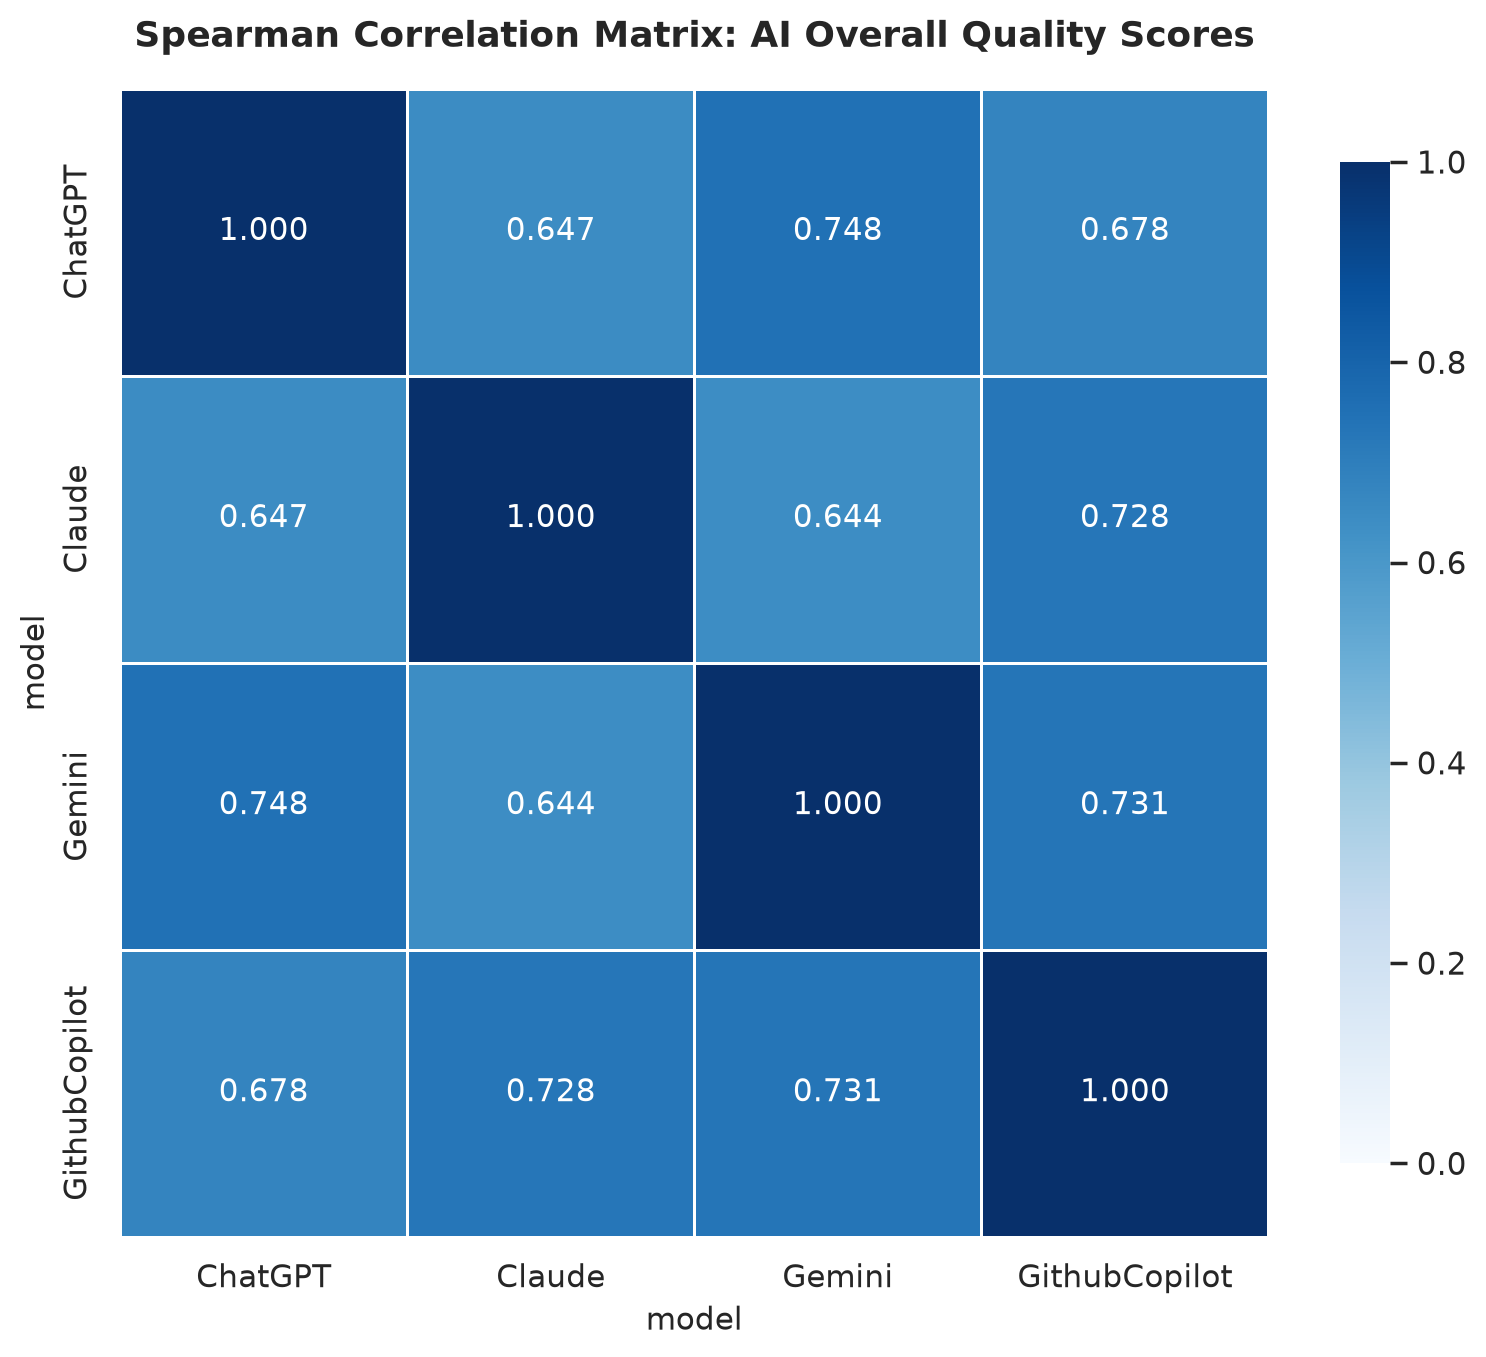
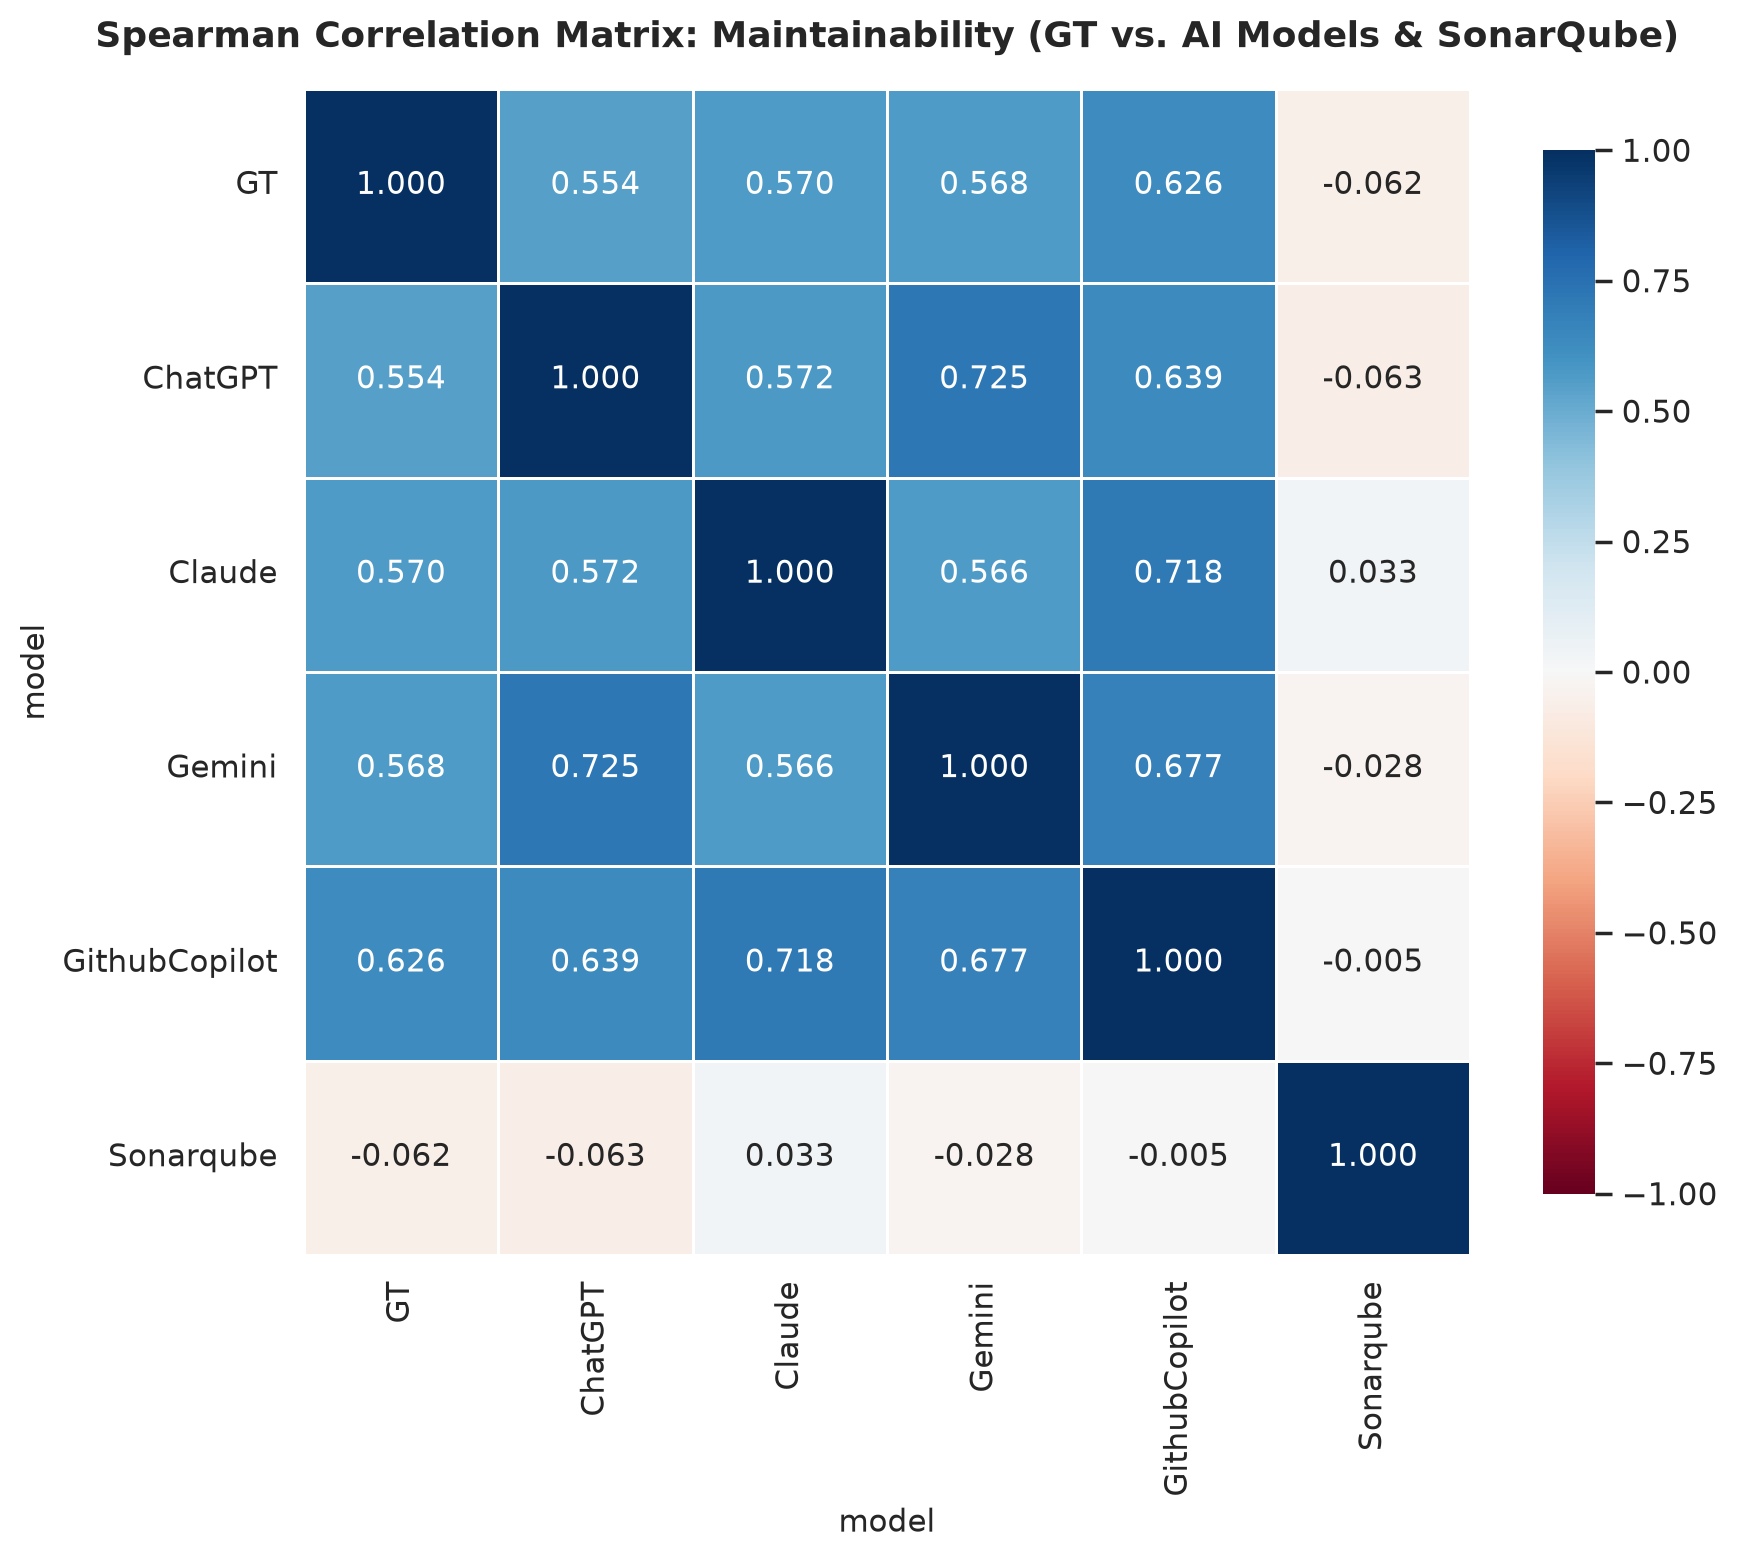
spearman correlation

diff --git a/output_charts/6_Summary/analyze_results.py b/output_charts/6_Summary/analyze_results.py
@@ -240,18 +240,48 @@ def generate_all_visualizations(df, output_dir='./output_charts'):
     plt.savefig(os.path.join(output_dir, '04_language_error_sensitivity.png'), dpi=CHART_DPI, bbox_inches='tight')
     plt.close()
 
+
     # ----------------------------------------------------
-    # Chart 5: Spearman Correlation Matrix (Inter-AI Consistency)
+    # Chart 5: Spearman Correlation Matrix (Maintainability: Metadata GT & Tools)
     # ----------------------------------------------------
-    plt.figure(figsize=(8, 7))
-    piv_corr = ai_df.pivot(index='snippet_id', columns='model', values='overall_quality')
-    corr_matrix = piv_corr.corr(method='spearman')
-    ax = sns.heatmap(corr_matrix, annot=True, fmt='.3f', cmap='Blues', vmin=0.0, vmax=1.0,
-                square=True, linewidths=1, cbar_kws={"shrink": .8})
-    ax.set_title("Spearman Correlation Matrix: AI Overall Quality Scores", fontsize=13, fontweight='bold', pad=15)
+    plt.figure(figsize=(9, 8))
+    
+    # 1. יצירת Pivot Table של תחזוקתיות עבור כל הכלים כולל SonarQube
+    piv_all = df.pivot(index='snippet_id', columns='model', values='maintainability')
+    
+    # 2. הוספת עמודת ה-Ground Truth של תחזוקתיות מתוך ה-Metadata
+    gt_scores = df.groupby('snippet_id')['gt_maint'].first()
+    piv_all['GT'] = gt_scores
+    
+    # 3. הגדרת הסדר הרצוי: Metadata_GT ראשון בהחלט!
+    desired_order = ['GT', 'ChatGPT', 'Claude', 'Gemini', 'GithubCopilot', 'Sonarqube']
+    actual_cols = [c for c in desired_order if c in piv_all.columns]
+    piv_ordered = piv_all[actual_cols]
+    
+    # 4. חישוב קורלציית ספירמן
+    corr_matrix = piv_ordered.corr(method='spearman')
+    
+    # 5. יצירת Heatmap 
+    # אם תרצי שכחול יהיה לשלילי ואדום לחיובי: השתמשי ב-'RdBu' (ללא _r)
+    # אם תרצי להיפך (אדום לשלילי וכחול לחיובי): השתמשי ב-'RdBu_r'
+    ax = sns.heatmap(
+        corr_matrix, 
+        annot=True, 
+        fmt='.3f', 
+        cmap='RdBu',     # כחול לשלילי, אדום לחיובי (או הפוך ע"י הוספת _r)
+        center=0,       # מרכז את הצבעים בדיוק ב-0
+        vmin=-1.0,      
+        vmax=1.0,
+        square=True, 
+        linewidths=1, 
+        cbar_kws={"shrink": .8}
+    )
+    
+    ax.set_title("Spearman Correlation Matrix: Maintainability (GT vs. AI Models & SonarQube)", fontsize=13, fontweight='bold', pad=15)
     plt.tight_layout()
     plt.savefig(os.path.join(output_dir, '05_inter_ai_correlation.png'), dpi=CHART_DPI, bbox_inches='tight')
     plt.close()
+
 
     # ----------------------------------------------------
     # Chart 6: Disagreement Range Spread Across Languages
